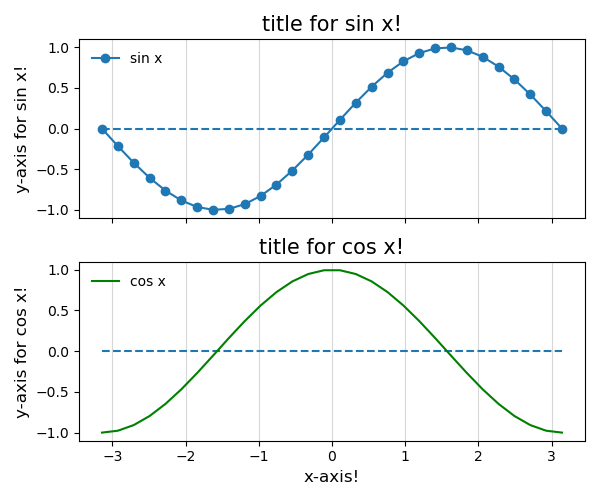
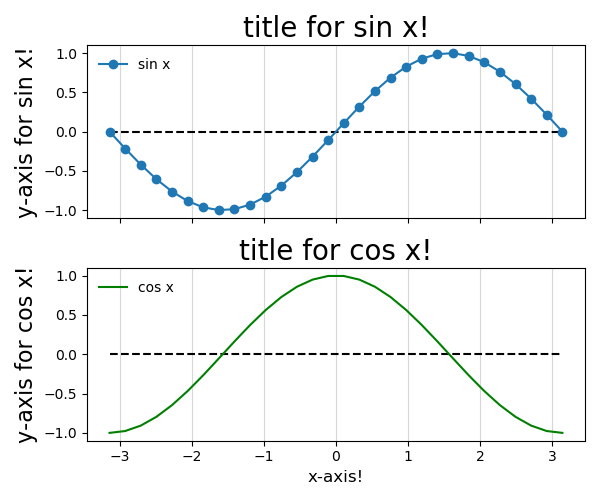
Modified files of plot
Modified the aestatics for more complementary colors and fix some errors in code

diff --git a/docs/basic-plotting-with-matplotlib.html b/docs/basic-plotting-with-matplotlib.html
@@ -114,6 +114,23 @@
 </code></pre>
 </div>
 </div>
+<div id="exercises" class="section level4 unnumbered panelset">
+<h4>Exercises<a class="anchor" aria-label="anchor" href="#exercises"><i class="fas fa-link"></i></a>
+</h4>
+<p><br></p>
+<ul>
+<li>Here we covered how basic plotting works</li>
+<li>Try generating the following graph with black circle markers and Red line</li>
+</ul>
+<div class="sourceCode">
+<pre class="sourceCode python"><code class="sourceCode python"><div class="highlight"><pre><span></span><span class="c1">#X and Y Datasets </span>
+<span class="n">X</span><span class="o">=</span><span class="p">[</span><span class="o">-</span><span class="mi">1</span><span class="p">,</span><span class="mi">0</span><span class="p">,</span><span class="mi">1</span><span class="p">]</span>
+<span class="n">Y</span><span class="o">=</span><span class="p">[</span><span class="mi">1</span><span class="p">,</span><span class="mi">0</span><span class="p">,</span><span class="o">-</span><span class="mi">1</span><span class="p">]</span>
+<span class="n">plt</span><span class="o">.</span><span class="n">show</span><span class="p">()</span>
+</pre></div>
+</code></pre>
+</div>
+</div>
 </div>
 <div id="example-3-histograms" class="section level3 unnumbered panelset">
 <h3>
@@ -185,13 +202,13 @@
 
 
 <span class="c1"># Actual plotting #</span>
-<span class="n">ax</span><span class="o">.</span><span class="n">boxplot</span><span class="p">([</span><span class="n">data</span><span class="p">,</span> <span class="n">data1</span><span class="p">],</span> <span class="n">labels</span> <span class="o">=</span> <span class="p">[</span><span class="s1">'data'</span><span class="p">,</span><span class="s1">'data1'</span><span class="p">])</span>
+<span class="n">plt</span><span class="o">.</span><span class="n">boxplot</span><span class="p">([</span><span class="n">data</span><span class="p">,</span> <span class="n">data1</span><span class="p">],</span> <span class="n">labels</span> <span class="o">=</span> <span class="p">[</span><span class="s1">'data'</span><span class="p">,</span><span class="s1">'data1'</span><span class="p">])</span>
 
 
 <span class="c1"># Aesthetics #</span>
-<span class="n">plt</span><span class="o">.</span><span class="n">xlabel</span><span class="p">(</span><span class="s1">'This is the x-axis'</span><span class="p">)</span>
-<span class="n">plt</span><span class="o">.</span><span class="n">ylabel</span><span class="p">(</span><span class="s1">'This is the y-axis'</span><span class="p">,</span> <span class="n">fontsize</span> <span class="o">=</span> <span class="mi">12</span><span class="p">)</span>
-<span class="n">plt</span><span class="o">.</span><span class="n">title</span><span class="p">(</span><span class="s1">'This is the Title!'</span><span class="p">,</span> <span class="n">fontsize</span> <span class="o">=</span> <span class="mi">15</span><span class="p">)</span>
+<span class="n">plt</span><span class="o">.</span><span class="n">xlabel</span><span class="p">(</span><span class="s1">'This is the x-axis'</span><span class="p">,</span> <span class="n">fontsize</span> <span class="o">=</span> <span class="mi">16</span><span class="p">)</span>
+<span class="n">plt</span><span class="o">.</span><span class="n">ylabel</span><span class="p">(</span><span class="s1">'This is the y-axis'</span><span class="p">,</span> <span class="n">fontsize</span> <span class="o">=</span> <span class="mi">16</span><span class="p">)</span>
+<span class="n">plt</span><span class="o">.</span><span class="n">title</span><span class="p">(</span><span class="s1">'This is the Title!'</span><span class="p">,</span> <span class="n">fontsize</span> <span class="o">=</span> <span class="mi">20</span><span class="p">)</span>
 <span class="n">plt</span><span class="o">.</span><span class="n">tight_layout</span><span class="p">()</span>
 <span class="n">plt</span><span class="o">.</span><span class="n">show</span><span class="p">()</span>
 </pre></div>
@@ -216,7 +233,7 @@
 <li>We generate two sets of data <code>data_1</code> and <code>data_2</code>
 </li>
 <li>Note the use of <code>marker</code>, <code>linestyle</code>, <code>color</code> and <code>label</code>!</li>
-<li>Note that both grpahs are plotted on the same figure!</li>
+<li>Note that both graphs are plotted on the same figure!</li>
 <li>If you would like a scatterplot with no lines, try <code>plt.scatter()</code>!</li>
 </ul>
 <div class="sourceCode">
@@ -234,16 +251,16 @@
 
 <span class="c1"># Actual plotting #</span>
 <span class="n">plt</span><span class="o">.</span><span class="n">plot</span><span class="p">(</span><span class="n">x_1</span><span class="p">,</span> <span class="n">y_1</span><span class="p">,</span> <span class="n">marker</span> <span class="o">=</span> <span class="s1">'o'</span><span class="p">,</span> <span class="n">linestyle</span> <span class="o">=</span> <span class="s1">'-'</span><span class="p">,</span> 
-          <span class="n">color</span> <span class="o">=</span> <span class="s1">'red'</span><span class="p">,</span> <span class="n">label</span> <span class="o">=</span> <span class="s1">'Graph 1'</span><span class="p">)</span>
+          <span class="n">color</span> <span class="o">=</span> <span class="s1">'#08D9D6'</span><span class="p">,</span> <span class="n">label</span> <span class="o">=</span> <span class="s1">'Graph 1'</span><span class="p">)</span>
 
-<span class="n">plt</span><span class="o">.</span><span class="n">plot</span><span class="p">(</span><span class="n">x_2</span><span class="p">,</span> <span class="n">y_2</span><span class="p">,</span> <span class="n">marker</span> <span class="o">=</span> <span class="s1">'*'</span><span class="p">,</span> <span class="n">linestyle</span> <span class="o">=</span> <span class="s1">'dashed'</span><span class="p">,</span>
-          <span class="n">color</span> <span class="o">=</span> <span class="s1">'#2a4858'</span><span class="p">,</span> <span class="n">label</span> <span class="o">=</span> <span class="s1">'Graph 2'</span><span class="p">)</span>
+<span class="n">plt</span><span class="o">.</span><span class="n">plot</span><span class="p">(</span><span class="n">x_2</span><span class="p">,</span> <span class="n">y_2</span><span class="p">,</span> <span class="n">marker</span> <span class="o">=</span> <span class="s1">'*'</span><span class="p">,</span> <span class="n">markersize</span><span class="o">=</span><span class="s1">'5'</span><span class="p">,</span> <span class="n">linestyle</span> <span class="o">=</span> <span class="s1">'dashed'</span><span class="p">,</span>
+          <span class="n">color</span> <span class="o">=</span> <span class="s1">'#FF2E63'</span><span class="p">,</span> <span class="n">label</span> <span class="o">=</span> <span class="s1">'Graph 2'</span><span class="p">)</span>
 
 <span class="c1"># Aesthetics #</span>
 <span class="n">plt</span><span class="o">.</span><span class="n">legend</span><span class="p">()</span>
-<span class="n">plt</span><span class="o">.</span><span class="n">xlabel</span><span class="p">(</span><span class="s1">'This is the x-axis'</span><span class="p">)</span>
-<span class="n">plt</span><span class="o">.</span><span class="n">ylabel</span><span class="p">(</span><span class="s1">'This is the y-axis'</span><span class="p">,</span> <span class="n">fontsize</span> <span class="o">=</span> <span class="mi">12</span><span class="p">)</span>
-<span class="n">plt</span><span class="o">.</span><span class="n">title</span><span class="p">(</span><span class="s1">'This is the Title!'</span><span class="p">,</span> <span class="n">fontsize</span> <span class="o">=</span> <span class="mi">15</span><span class="p">)</span>
+<span class="n">plt</span><span class="o">.</span><span class="n">xlabel</span><span class="p">(</span><span class="s1">'This is the x-axis'</span><span class="p">,</span> <span class="n">fontsize</span> <span class="o">=</span> <span class="mi">16</span><span class="p">)</span>
+<span class="n">plt</span><span class="o">.</span><span class="n">ylabel</span><span class="p">(</span><span class="s1">'This is the y-axis'</span><span class="p">,</span> <span class="n">fontsize</span> <span class="o">=</span> <span class="mi">16</span><span class="p">)</span>
+<span class="n">plt</span><span class="o">.</span><span class="n">title</span><span class="p">(</span><span class="s1">'This is the Title!'</span><span class="p">,</span> <span class="n">fontsize</span> <span class="o">=</span> <span class="mi">20</span><span class="p">)</span>
 <span class="n">plt</span><span class="o">.</span><span class="n">tight_layout</span><span class="p">()</span>
 <span class="n">plt</span><span class="o">.</span><span class="n">show</span><span class="p">()</span>
 </pre></div>
@@ -277,7 +294,7 @@ the same figure!</li>
 <pre class="sourceCode python"><code class="sourceCode python"><div class="highlight"><pre><span></span><span class="kn">from</span> <span class="nn">matplotlib</span> <span class="kn">import</span> <span class="n">pyplot</span> <span class="k">as</span> <span class="n">plt</span>
 <span class="kn">import</span> <span class="nn">numpy</span> <span class="k">as</span> <span class="nn">np</span>
 
-<span class="c1"># Generating data</span>
+<span class="c1"># Generating data via numpy package</span>
 <span class="n">x</span> <span class="o">=</span> <span class="n">np</span><span class="o">.</span><span class="n">linspace</span><span class="p">(</span><span class="o">-</span><span class="n">np</span><span class="o">.</span><span class="n">pi</span><span class="p">,</span> <span class="n">np</span><span class="o">.</span><span class="n">pi</span><span class="p">,</span> <span class="n">num</span><span class="o">=</span><span class="mi">30</span><span class="p">,</span> <span class="n">endpoint</span><span class="o">=</span><span class="kc">True</span><span class="p">)</span>
 <span class="n">cos_x</span> <span class="o">=</span> <span class="n">np</span><span class="o">.</span><span class="n">cos</span><span class="p">(</span><span class="n">x</span><span class="p">)</span>
 <span class="n">sin_x</span> <span class="o">=</span> <span class="n">np</span><span class="o">.</span><span class="n">sin</span><span class="p">(</span><span class="n">x</span><span class="p">)</span>
@@ -291,15 +308,15 @@ the same figure!</li>
 <span class="c1"># Aesthetics &amp; Plotting for ax[0] #</span>
 <span class="n">ax</span><span class="p">[</span><span class="mi">0</span><span class="p">]</span><span class="o">.</span><span class="n">plot</span><span class="p">(</span><span class="n">x</span><span class="p">,</span> <span class="n">sin_x</span><span class="p">,</span> <span class="n">marker</span> <span class="o">=</span> <span class="s1">'o'</span><span class="p">,</span> <span class="n">linestyle</span> <span class="o">=</span> <span class="s1">'-'</span> <span class="p">,</span><span class="n">label</span><span class="o">=</span><span class="s1">'sin x'</span><span class="p">)</span>
 <span class="n">ax</span><span class="p">[</span><span class="mi">0</span><span class="p">]</span><span class="o">.</span><span class="n">hlines</span><span class="p">(</span><span class="mi">0</span><span class="p">,</span> <span class="n">xmin</span> <span class="o">=</span> <span class="o">-</span><span class="n">np</span><span class="o">.</span><span class="n">pi</span><span class="p">,</span> <span class="n">xmax</span> <span class="o">=</span> <span class="n">np</span><span class="o">.</span><span class="n">pi</span><span class="p">,</span> <span class="n">linestyle</span> <span class="o">=</span> <span class="s1">'dashed'</span><span class="p">)</span>
-<span class="n">ax</span><span class="p">[</span><span class="mi">0</span><span class="p">]</span><span class="o">.</span><span class="n">set_ylabel</span><span class="p">(</span><span class="s1">'y-axis for sin x!'</span><span class="p">,</span><span class="n">fontsize</span> <span class="o">=</span> <span class="mi">12</span><span class="p">)</span>
-<span class="n">ax</span><span class="p">[</span><span class="mi">0</span><span class="p">]</span><span class="o">.</span><span class="n">set_title</span><span class="p">(</span><span class="s1">'title for sin x!'</span><span class="p">,</span><span class="n">fontsize</span> <span class="o">=</span> <span class="mi">15</span><span class="p">)</span>
+<span class="n">ax</span><span class="p">[</span><span class="mi">0</span><span class="p">]</span><span class="o">.</span><span class="n">set_ylabel</span><span class="p">(</span><span class="s1">'y-axis for sin x!'</span><span class="p">,</span><span class="n">fontsize</span> <span class="o">=</span> <span class="mi">16</span><span class="p">)</span>
+<span class="n">ax</span><span class="p">[</span><span class="mi">0</span><span class="p">]</span><span class="o">.</span><span class="n">set_title</span><span class="p">(</span><span class="s1">'title for sin x!'</span><span class="p">,</span><span class="n">fontsize</span> <span class="o">=</span> <span class="mi">20</span><span class="p">)</span>
 
 
 <span class="c1"># Aesthetics &amp; Plotting for ax[1] #</span>
 <span class="n">ax</span><span class="p">[</span><span class="mi">1</span><span class="p">]</span><span class="o">.</span><span class="n">plot</span><span class="p">(</span><span class="n">x</span><span class="p">,</span> <span class="n">cos_x</span><span class="p">,</span> <span class="n">label</span><span class="o">=</span><span class="s1">'cos x'</span><span class="p">,</span> <span class="n">color</span><span class="o">=</span><span class="s1">'green'</span><span class="p">)</span>
 <span class="n">ax</span><span class="p">[</span><span class="mi">1</span><span class="p">]</span><span class="o">.</span><span class="n">hlines</span><span class="p">(</span><span class="mi">0</span><span class="p">,</span> <span class="n">xmin</span> <span class="o">=</span> <span class="o">-</span><span class="n">np</span><span class="o">.</span><span class="n">pi</span><span class="p">,</span> <span class="n">xmax</span> <span class="o">=</span> <span class="n">np</span><span class="o">.</span><span class="n">pi</span><span class="p">,</span> <span class="n">linestyle</span> <span class="o">=</span> <span class="s1">'dashed'</span><span class="p">)</span>
-<span class="n">ax</span><span class="p">[</span><span class="mi">1</span><span class="p">]</span><span class="o">.</span><span class="n">set_ylabel</span><span class="p">(</span><span class="s1">'y-axis for cos x!'</span><span class="p">,</span><span class="n">fontsize</span> <span class="o">=</span> <span class="mi">12</span><span class="p">)</span>
-<span class="n">ax</span><span class="p">[</span><span class="mi">1</span><span class="p">]</span><span class="o">.</span><span class="n">set_title</span><span class="p">(</span><span class="s1">'title for cos x!'</span><span class="p">,</span><span class="n">fontsize</span> <span class="o">=</span> <span class="mi">15</span><span class="p">)</span>
+<span class="n">ax</span><span class="p">[</span><span class="mi">1</span><span class="p">]</span><span class="o">.</span><span class="n">set_ylabel</span><span class="p">(</span><span class="s1">'y-axis for cos x!'</span><span class="p">,</span><span class="n">fontsize</span> <span class="o">=</span> <span class="mi">16</span><span class="p">)</span>
+<span class="n">ax</span><span class="p">[</span><span class="mi">1</span><span class="p">]</span><span class="o">.</span><span class="n">set_title</span><span class="p">(</span><span class="s1">'title for cos x!'</span><span class="p">,</span><span class="n">fontsize</span> <span class="o">=</span> <span class="mi">20</span><span class="p">)</span>
 
 <span class="k">for</span> <span class="n">axes</span> <span class="ow">in</span> <span class="n">ax</span><span class="o">.</span><span class="n">flat</span><span class="p">:</span>
      <span class="n">axes</span><span class="o">.</span><span class="n">legend</span><span class="p">(</span><span class="n">loc</span><span class="o">=</span><span class="s1">'upper left'</span><span class="p">,</span> <span class="n">frameon</span><span class="o">=</span><span class="kc">False</span><span class="p">)</span>

diff --git a/files_python/matplotlib-same-axis-plotting.py b/files_python/matplotlib-same-axis-plotting.py
@@ -4,7 +4,7 @@
 '''
 - We generate two sets of data `data_1` and `data_2`
 - Note the use of `marker`, `linestyle`, `color` and `label`!
-- Note that both grpahs are plotted on the same figure!
+- Note that both graphs are plotted on the same figure!
 - If you would like a scatterplot with no lines, try `plt.scatter()`!
 '''
 
@@ -24,16 +24,16 @@ fig, ax = plt.subplots(figsize=(6, 5)) # Hide
 
 # Actual plotting #
 plt.plot(x_1, y_1, marker = 'o', linestyle = '-', 
-          color = 'red', label = 'Graph 1')
+          color = '#08D9D6', label = 'Graph 1')
 
-plt.plot(x_2, y_2, marker = '*', linestyle = 'dashed',
-          color = '#2a4858', label = 'Graph 2')
+plt.plot(x_2, y_2, marker = '*', markersize='5', linestyle = 'dashed',
+          color = '#FF2E63', label = 'Graph 2')
 
 # Aesthetics #
 plt.legend()
-plt.xlabel('This is the x-axis')
-plt.ylabel('This is the y-axis', fontsize = 12)
-plt.title('This is the Title!', fontsize = 15)
+plt.xlabel('This is the x-axis', fontsize = 16)
+plt.ylabel('This is the y-axis', fontsize = 16)
+plt.title('This is the Title!', fontsize = 20)
 plt.tight_layout()
 plt.savefig(f'{argv[0]}.png')  # Hide
 plt.show()

diff --git a/files_python/matplotlib-diff-axis-plotting.py b/files_python/matplotlib-diff-axis-plotting.py
@@ -13,7 +13,7 @@ from sys import argv  # Hide
 from matplotlib import pyplot as plt
 import numpy as np
 
-# Generating data
+# Generating data via numpy package
 x = np.linspace(-np.pi, np.pi, num=30, endpoint=True)
 cos_x = np.cos(x)
 sin_x = np.sin(x)
@@ -27,15 +27,15 @@ ax[1].set_xlabel('x-axis!', fontsize = 12)
 # Aesthetics & Plotting for ax[0] #
 ax[0].plot(x, sin_x, marker = 'o', linestyle = '-' ,label='sin x')
 ax[0].hlines(0, xmin = -np.pi, xmax = np.pi, linestyle = 'dashed')
-ax[0].set_ylabel('y-axis for sin x!',fontsize = 12)
-ax[0].set_title('title for sin x!',fontsize = 15)
+ax[0].set_ylabel('y-axis for sin x!',fontsize = 16)
+ax[0].set_title('title for sin x!',fontsize = 20)
 
 
 # Aesthetics & Plotting for ax[1] #
 ax[1].plot(x, cos_x, label='cos x', color='green')
 ax[1].hlines(0, xmin = -np.pi, xmax = np.pi, linestyle = 'dashed')
-ax[1].set_ylabel('y-axis for cos x!',fontsize = 12)
-ax[1].set_title('title for cos x!',fontsize = 15)
+ax[1].set_ylabel('y-axis for cos x!',fontsize = 16)
+ax[1].set_title('title for cos x!',fontsize = 20)
 
 for axes in ax.flat:
      axes.legend(loc='upper left', frameon=False)

diff --git a/files_python/a-simple-plot.py b/files_python/a-simple-plot.py
@@ -32,3 +32,34 @@ plt.grid(alpha=.25)
 plt.legend(loc='upper left')
 plt.savefig(f'{argv[0]}.png', dpi=150)  # Hide
 plt.show()
+# %% Exercises
+'''
+- Here we covered how basic plotting works
+- Try generating the following graph with black circle markers and Red line
+'''
+
+#X and Y Datasets 
+X=[-1,0,1]
+Y=[1,0,-1]
+plt.plot(X,Y,color='red', fmt='bo') # Hide
+plt.savefig(f'{argv[0]}.png', dpi=100) # Hide
+plt.show()
+# %%
+from matplotlib import pyplot as plt
+import numpy as np
+plt.figure(figsize=(5,5))
+#plot unit circle
+t = np.linspace(0,2*np.pi,101)
+plt.plot(np.cos(t),np.sin(t),color='#6A6C6E')
+
+plt.xticks([])
+plt.yticks([])
+
+plt.xlabel('Real Values')
+plt.ylabel('Imaginary')
+plt.title('Complex Roots')
+plt.grid(False)
+plt.box(False)
+#plt.legend(loc='upper left')
+
+plt.show()

diff --git a/files_python/matplotlib-boxplot.py b/files_python/matplotlib-boxplot.py
@@ -20,13 +20,14 @@ print(data1)
 fig, ax = plt.subplots(figsize=(6, 5)) # Hide
 
 # Actual plotting #
-ax.boxplot([data, data1], labels = ['data','data1'])
+ax.boxplot([data, data1], labels = ['data','data1']) # Hide
+plt.boxplot([data, data1], labels = ['data','data1'])
 
 
 # Aesthetics #
-plt.xlabel('This is the x-axis')
-plt.ylabel('This is the y-axis', fontsize = 12)
-plt.title('This is the Title!', fontsize = 15)
+plt.xlabel('This is the x-axis', fontsize = 16)
+plt.ylabel('This is the y-axis', fontsize = 16)
+plt.title('This is the Title!', fontsize = 20)
 plt.tight_layout()
 plt.savefig(f'{argv[0]}.png')  # Hide
 plt.show()
